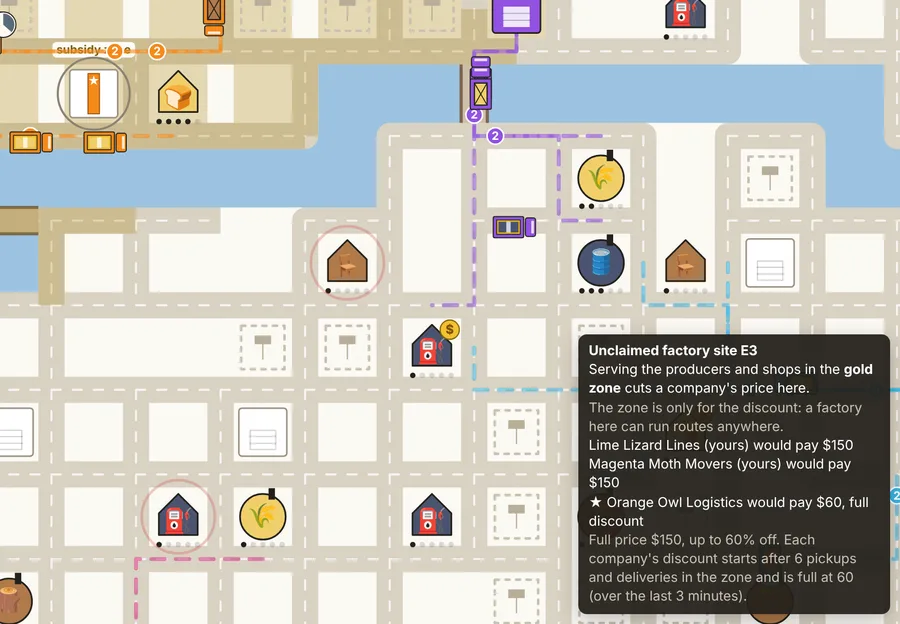
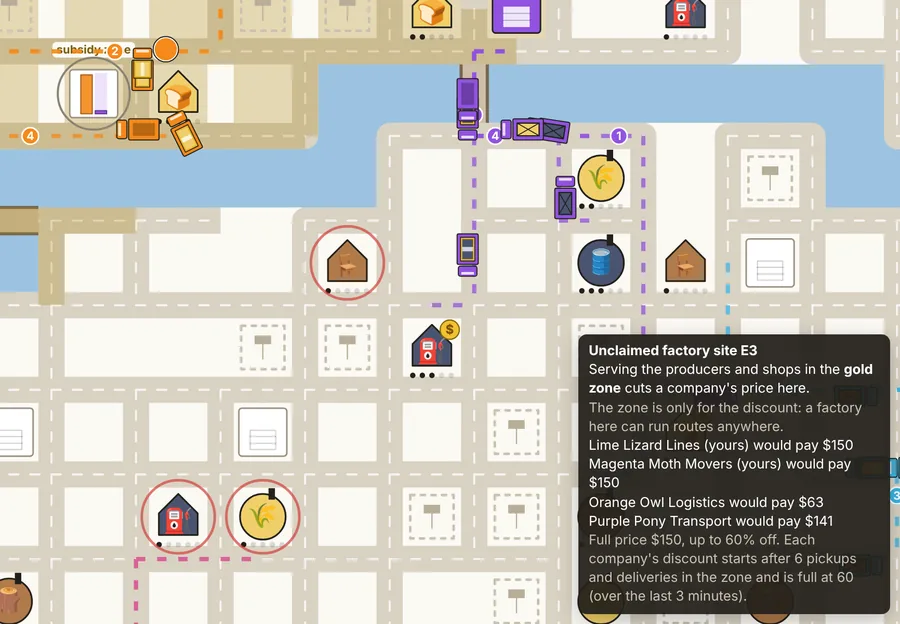
Every running sale spotlights its company's factories; fresh walkthrough pictures
- With several sales at once, only the first company's factories pulsed; now
  every company holding a sale gets the ring.
- Walkthrough pictures retaken: iron grey for teal, the new route lines,
  and trucks parked in lines on the street.

Claude-Session: https://claude.ai/code/session_01C8anJjHiDxs9NrQijdSTCH

diff --git a/client/src/render.ts b/client/src/render.ts
@@ -64,8 +64,8 @@ export interface Highlights {
   saturated: Set<string>;
   /** Free depot sites to highlight with this company's prices (buy-depot mode). */
   buyFor: number | null;
-  /** Company being auctioned: its factories get a pulsing ring. */
-  spotlight: number | null;
+  /** Companies holding a sale right now: their factories pulse. */
+  spotlight: Set<number>;
   /** A free factory site's subsidy district (drive distance, blocks), shaded when it's hovered. */
   district: number;
   /** Companies whose subsidy meters show on free factory sites (the ones you run). */
@@ -655,7 +655,7 @@ export class Renderer {
           drawFactory(ctx, x, y, s, companyColor(owner));
         }
         if (picked || hovered) ring(ctx, x, y, s * 1.5, picked ? INK : '#8a8273');
-        if (owner !== undefined && owner === hl.spotlight) {
+        if (owner !== undefined && hl.spotlight.has(owner)) {
           const pulse = 0.5 + 0.5 * Math.sin(now * 4);
           ring(ctx, x, y, s * (1.7 + 0.35 * pulse), companyColor(owner), 3);
         }

diff --git a/client/src/main.ts b/client/src/main.ts
@@ -104,7 +104,7 @@ const hl: Highlights = {
   listRoute: null,
   saturated: new Set(),
   buyFor: null,
-  spotlight: null,
+  spotlight: new Set<number>(),
   district: session.cfg.depots.districtBlocks,
   meterFor: [],
   cardCompany: null,
@@ -1302,7 +1302,7 @@ function frame(now: number) {
   for (const [id, sp] of drawn) shown.set(id, sp);
 
   tooltip(obs);
-  hl.spotlight = obs.sales.length ? obs.sales[0].company : null;
+  hl.spotlight = new Set(obs.sales.map((x) => x.company)); // every company holding a sale
   hl.meterFor = obs.companies.map((c) => c.id); // public: everyone sees every company's progress
   const trucksNow = [...shown].map(([id, sp]) => ({ id, ...sp }));
   redraw = () => renderer.draw(obs, trucksNow, hl, now / 1000);
